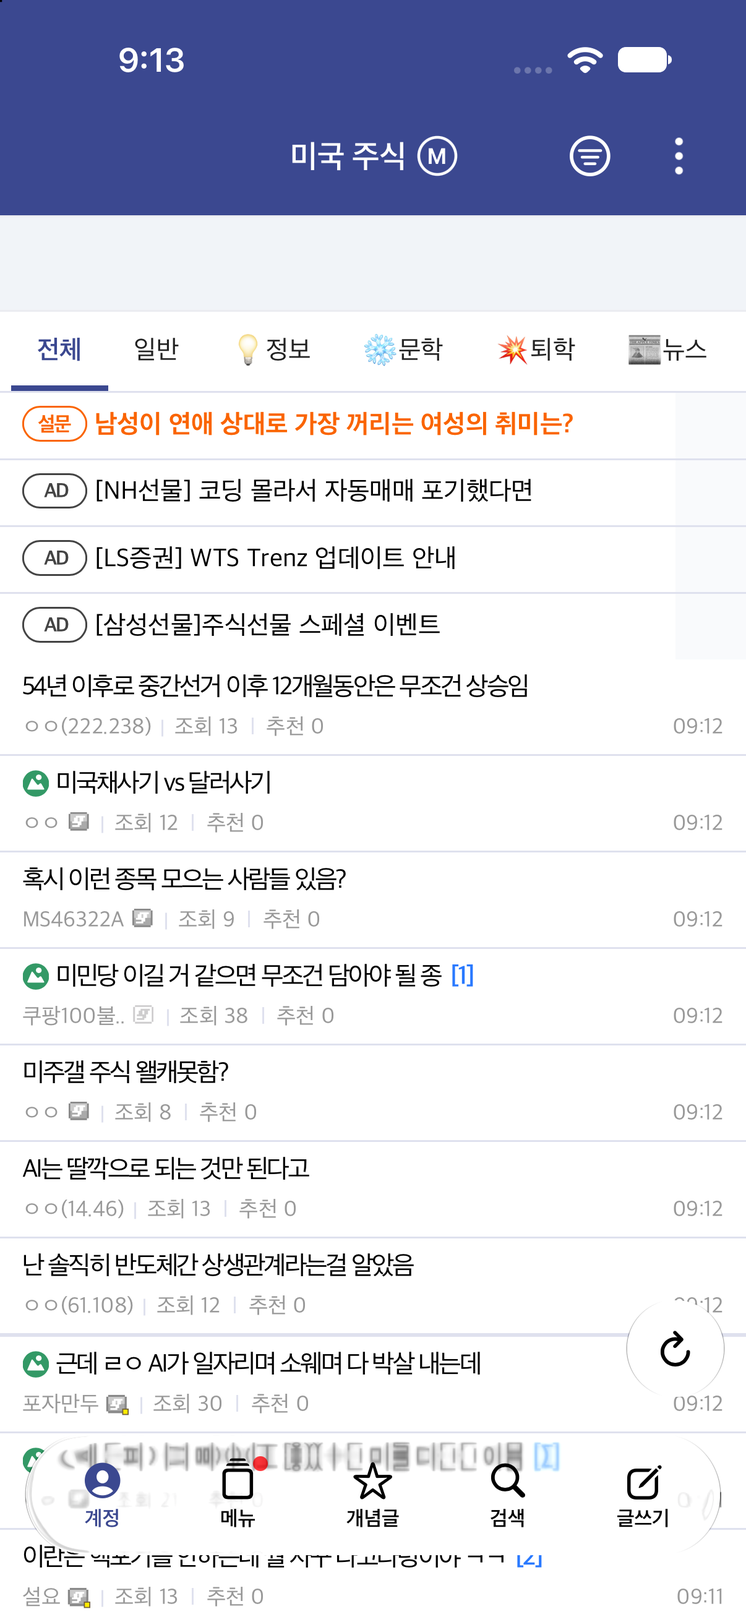
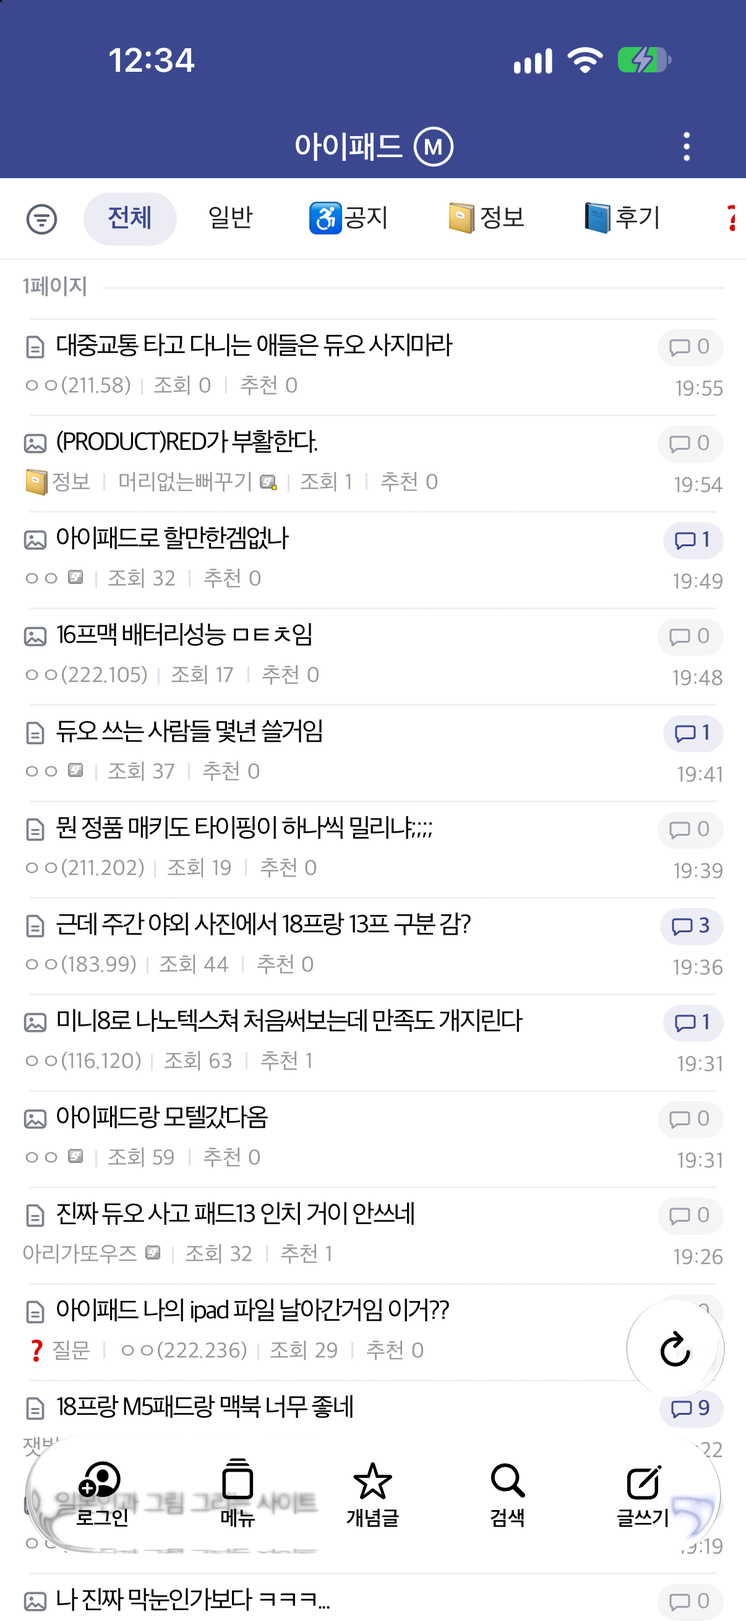
문서 갱신: 0.10.3 기능 기준 README·FEATURES 리프레시 및 새 스크린샷 반영

diff --git a/FEATURES.md b/FEATURES.md
@@ -1,41 +1,89 @@
 # DCAPP (디캡) 기능 소개
 
-디캡은 디시인사이드 모바일 웹(m.dcinside.com)을 아이폰 · 아이패드 · 아이폰 듀오에서 더 편하게 보기 위해 만든 **개인용 iOS 앱**입니다.
-이 문서는 스크린샷으로 주요 기능을 소개합니다. 전체 기능 목록과 라이선스는 [README](README.md)를 참고하세요.
+디캡은 디시인사이드 모바일 웹(m.dcinside.com)을 아이폰 · 아이패드 · 아이폰 듀오에서 더 편하게 보기 위해 만든 **개인용 iOS 앱**입니다.  
+이 문서는 앱 내 튜토리얼 구성을 바탕으로 주요 기능을 스크린샷과 함께 소개합니다. 전체 기능 요약과 라이선스는 [README](README.md)를 참고하세요.
 
 > ⚠ 디시인사이드와 관계없는 **비공식** 앱입니다. 사이트 구조가 바뀌면 일부 기능이 동작하지 않을 수 있습니다.
 
-> 📌 스크린샷의 갤러리(미국 주식 등)는 앱 설명용 사진을 찍기 위해 Claude가 임의로 고른 갤러리입니다. 제작자가 평소 활동하는 갤러리가 아닙니다.
+> 📌 스크린샷의 갤러리는 앱 설명용 사진을 찍기 위해 제작자가 임의로 고른 갤러리이며, 제작자가 평소 활동하는 갤러리가 아닙니다.
 
 ## 목차
 
-1. [갤러리 글 목록](#1-갤러리-글-목록)
-2. [글 읽기 · 댓글](#2-글-읽기--댓글)
-3. [차단 · 메모](#3-차단--메모)
-4. [앱 내 알림](#4-앱-내-알림)
-5. [계정 저장 · 전환](#5-계정-저장--전환)
-6. [임시저장](#6-임시저장)
-7. [한손 모드](#7-한손-모드)
-8. [글 보관함](#8-글-보관함)
-9. [각종 설정](#9-각종-설정)
+1. [컨트롤바 · 나무위키 검색](#1-컨트롤바--나무위키-검색)
+2. [글 목록 · 말머리 · 필터 · 자동 이어 붙이기](#2-글-목록--말머리--필터--자동-이어-붙이기)
+3. [작성자 · 갤러리 검색](#3-작성자--갤러리-검색)
+4. [글 읽기 · 사진 · 댓글](#4-글-읽기--사진--댓글)
+5. [차단 · 메모 · 고급 차단](#5-차단--메모--고급-차단)
+6. [분할 화면 · 한손 모드 · 듀오](#6-분할-화면--한손-모드--듀오)
+7. [글쓰기 · 계정 · 잠금 · 알림](#7-글쓰기--계정--잠금--알림)
+8. [글 보관함 · 각종 설정 · 업데이트](#8-글-보관함--각종-설정--업데이트)
 
 ---
 
-## 1. 갤러리 글 목록
+## 1. 컨트롤바 · 나무위키 검색
+
+<p align="center">
+  <img src="docs/images/tutorial.png" width="260" alt="앱 내 튜토리얼">
+</p>
+
+- **컨트롤바**: 계정 · 메뉴 · 개념글⇄전체글 · 검색 · 글쓰기를 한 막대에 모았습니다.
+  - 설정 → 컨트롤바에서 **가로로 쓸 때(하단 바) / 세로로 쓸 때(오른쪽 막대)** 배치를 따로 고릅니다.
+  - 가로 바(비분할)에서 글을 볼 때는 개념글 버튼이 **댓글작성** 버튼으로 바뀝니다.
+  - 막대를 옆으로 밀면 둘째 칸(**나무위키 · 차단·메모 · 보관함/즐겨찾기 · 링크 공유**)이 나오며, 버튼 순서 · 접기 · 스크롤 시 자동 숨김을 설정할 수 있습니다.
+- **나무위키 검색**: 둘째 칸의 **나무위키**를 누르면 검색 창이 열립니다.
+  - 검색어를 비워 두면 **실시간 검색어**가 순위대로 나오며, 항목을 **왼쪽으로 밀면** 실검 사유를 바로 볼 수 있습니다.
+  - 입력 중에는 **연관 검색어**가 뜨며, 앱 안의 창에서 바로 열고 닫으면 보던 디시 화면이 그대로 남습니다.
+
+---
+
+## 2. 글 목록 · 말머리 · 필터 · 자동 이어 붙이기
 
 <p align="center">
   <img src="docs/images/list-iphone.png" width="280" alt="아이폰 글 목록">
 </p>
 
-- **말머리 탭**: 글 목록 위에 말머리가 둥근 탭으로 한 줄에 놓입니다. 좌우로 넘겨 고르고, 지금 보고 있는 말머리는 테마 색으로 표시됩니다.
-- **댓글 수**: 제목 바로 뒤에 파란 `[댓글수]`로 보여 줍니다.
-- **컨트롤바**: 계정 · 메뉴 · 개념글 · 검색 · 글쓰기를 한곳에 모은 버튼 막대입니다. 순서는 설정에서 바꿀 수 있습니다.
-- **스크롤하면 숨기기**: 스크롤하는 동안 컨트롤바가 화면 밖으로 들어갔다가, 멈추면 바로 다시 나옵니다.
-- **개념글 뒤로가기**: 개념글 2페이지 이상에서 뒤로 가면 전체글이 아니라 바로 앞 페이지로 갑니다.
+- **상단 고정 말머리 줄**: 필터 버튼과 `전체` 탭이 왼쪽에 고정되고, 나머지 말머리는 가로로 넘겨 고릅니다.
+- **게시물 필터**: 말머리 줄 왼쪽 깔때기(말머리가 없는 갤러리는 상단바 우측)에서 **특정 말머리 · 읽은 글 · 추천/댓글/조회수** 조건으로 걸러 봅니다.
+- **깔끔한 행 구성**: 글 종류 아이콘, 오른쪽 댓글 캡슐 배지(눌러서 댓글로 바로 이동)와 작성시간 정렬, 부드러운 여백 구분선, `N페이지` 구분선 표시.
+- **자동 이어 붙이기**: 목록 맨 아래로 스크롤하면 다음 페이지가 자동으로 이어지며, 상단에 지나온 페이지 번호가 고정 표시됩니다.
+- **글 롱프레스 메뉴**: 글을 꾹 누르면 차단 · 메모 · 갤로그 · 작성글 찾기 메뉴가 바로 열립니다.
 
-### 기기별 화면
+---
 
-컨트롤바는 기기와 화면 방향에 맞춰 **하단 가로 막대** 또는 **오른쪽 세로 막대**로 놓입니다. 가로로 쓸 때 · 세로로 쓸 때 어느 쪽으로 둘지 설정에서 따로 고를 수 있습니다.
+## 3. 작성자 · 갤러리 검색
+
+- **2탭 검색 시트**: 갤러리 안에서 검색을 누르면 **갤러리 내 글 검색**(말머리 · 검색 범위 · 개념글만)과 **통합검색**을 상단 탭으로 바로 오갑니다.
+- **실시간 갤러리 찾기**: 검색어 입력 중에도 정식 · 마이너 · 미니 · 인물 갤러리 검색 결과가 바로 뜹니다.
+- **식별코드 · IP로 작성글 찾기**: 검색 시트나 닉네임/글 꾹 누르기 메뉴에서 해당 작성자(유동은 IP 앞 두 칸 기준)의 글만 모아서 볼 수 있습니다. 창을 닫아도 뒤에서 계속 수집합니다.
+
+---
+
+## 4. 글 읽기 · 사진 · 댓글
+
+<p align="center">
+  <img src="docs/images/post-iphone.png" width="280" alt="글 보기와 댓글">
+</p>
+
+- **추천 · 비추 칸**: 개추와 비추를 한 줄에 모으고 실베추 · 펌 · 수정/삭제를 정리했습니다. 비로그인 추천 코드 입력과 재시도도 지원합니다.
+- **댓글 정렬 · 입력**: 등록순 · 최신순 · 답글순으로 정렬하고, 세로 컨트롤바 사용 시 댓글 입력창이 화면 아래에 고정됩니다.
+- **사진 보기**: 글 속 사진을 탭하면 전체 화면으로 보고, 핀치·더블탭 확대, 좌우 넘기기, 원본 저장(움짤 포함) 및 **전체 일괄저장**, 본문 이미지 차단이 가능합니다.
+
+---
+
+## 5. 차단 · 메모 · 고급 차단
+
+| 차단·메모 설정 | 차단 목록 |
+|:---:|:---:|
+| <img src="docs/images/block-settings.png" width="260" alt="차단 메모 설정"> | <img src="docs/images/block-users.png" width="260" alt="차단 유저 목록"> |
+
+- **작성자 차단 · 메모**: 닉네임·글을 탭하거나 길게 눌러 **아이디 · IP · 닉네임** 차단 및 주황색 메모를 남깁니다(이 갤러리만 / 모든 갤러리 선택).
+- **자동메모**: 메모가 없는 로그인 계정에 아이디를 자동으로 표시합니다.
+- **키워드 · 고급 차단**: 일반 키워드 외에 작성자 + 단어 복합 조건, **특수문자 · 공백 끼워넣기 우회 막기**를 지원합니다.
+- **디시콘 · 이미지 차단 & 요소 숨기기**: 디시콘/본문 이미지 차단과 화면 요소 직접 선택 숨기기를 지원하며, 차단된 글은 **접기** 또는 **완전 숨김** 중 고릅니다.
+
+---
+
+## 6. 분할 화면 · 한손 모드 · 듀오
 
 | 아이패드 (세로) | 아이패드 (가로) |
 |:---:|:---:|
@@ -45,123 +93,34 @@
 |:---:|:---:|:---:|
 | <img src="docs/images/list-duo-1.png" width="230" alt="듀오 접은 화면"> | <img src="docs/images/list-duo-2.png" width="330" alt="듀오 펼친 화면 가로"> | <img src="docs/images/list-duo-3.png" width="230" alt="듀오 펼친 화면 세로"> |
 
-- **아이폰 듀오 대응**: 시계 · 배터리는 시스템 기본인 화면 옆 세로 줄에 두고, 웹 화면은 그 줄 아래까지 깔고, 컨트롤바는 줄 안으로 넣습니다.
-  - 예전에는 시계를 위쪽 가로로 고정했는데, 다이나믹 아일랜드 개수 · 접기/펴기 · 회전에 따라 시계가 밀려서 상단바 버튼이 가려지거나 겹치는 일이 있었습니다. 그래서 앱이 위치를 따로 맞추지 않고 시스템 배치를 따르게 바꿨습니다.
-  - 흰 페이지 위에서도 보이도록 라이트 모드에서는 시계 글씨를 검게 보여 줍니다.
-  - 글자는 세로 줄 안쪽에 두고, 사진·영상은 줄 아래까지 깔립니다. 동영상 분할로 쓸 때도 댓글 입력창이 키보드 바로 위에 붙습니다.
+| 한손 모드 |
+|:---:|
+| <img src="docs/images/one-hand.png" width="280" alt="한손 모드"> |
+
+- **분할 화면**: 아이패드·듀오 펼친 가로 화면에서는 왼쪽 목록 · 오른쪽 글을 나란히 보며, 접거나 돌려도 보던 글이 새로고침 없이 그대로 이어집니다.
+- **듀오 안전 영역 대응**: 세로 막대 시 시계·배터리 영역과 겹치지 않게 여백을 두고, 가로 막대 시에는 화면 끝까지 넓게 쓸 수 있습니다.
+- **한손 모드**: 상단바 갤러리 이름을 0.5초 길게 눌러 켜고, 핸들을 맨 위로 끌어 잠깐 버티면 해제됩니다.
 
 ---
 
-## 2. 글 읽기 · 댓글
+## 7. 글쓰기 · 계정 · 잠금 · 알림
 
-<p align="center">
-  <img src="docs/images/post-iphone.png" width="280" alt="글 보기와 댓글">
-</p>
+| 계정 저장·전환 | 임시저장 | 알림 배너 | 알림 탭 |
+|:---:|:---:|:---:|:---:|
+| <img src="docs/images/accounts.png" width="200" alt="계정 설정"> | <img src="docs/images/drafts.png" width="200" alt="임시저장"> | <img src="docs/images/alarm-banner.png" width="200" alt="알림 배너"> | <img src="docs/images/alarm-tab.png" width="200" alt="알림 탭"> |
 
-- **추천 · 비추 칸**: 개추와 비추를 한 줄에 모았습니다. 실베추 · 펌 버튼이 비추 옆에 붙어 있고, 본인 글이면 수정 · 삭제 버튼이 아래 줄 오른쪽에 나옵니다.
-- **댓글 정렬**: 등록순 · 최신순 · 답글순을 댓글 머리글에서 바로 고릅니다.
-- **댓글 입력**: 댓글창을 누르면 키보드가 올라오고, 입력창이 키보드 바로 위에 고정됩니다.
-- **답글**: 댓글을 누르면 답글 칸이 열립니다.
-- **새로고침**: 글을 다시 불러온 뒤 댓글 쪽으로 이동합니다. 다른 기기에서 쓴 댓글도 보입니다.
-- **사진 보기**: 글 속 사진을 탭하면 전체 화면으로 보고, 확대 · 넘기기 · 원본 저장(움짤 포함)을 할 수 있습니다.
+- **글쓰기**: 사진 포함 자동 임시저장, 갤러리별 자짤 자동 첨부, **금지어 등록 실패 시 첫 번째 금지어 위치 자동 선택**을 지원합니다.
+- **계정 · 잠금**: 다중 계정 키체인 저장 및 원탭 전환, 유동 닉네임·비밀번호 자동 입력, Face ID / Touch ID 및 기기 암호 잠금 해제, 가림막 꾸미기를 지원합니다.
+- **앱 내 알림**: 새 댓글 알림 배너 및 메뉴 → 알림 탭에서 확인합니다.
 
 ---
 
-## 3. 차단 · 메모
+## 8. 글 보관함 · 각종 설정 · 업데이트
 
-<p align="center">
-  <img src="docs/images/block-settings.png" width="280" alt="차단 메모 설정">
-</p>
-
-- **닉네임을 탭하거나 길게 누르면** 디시 차단 창 대신 앱의 차단 · 메모 메뉴가 뜹니다.
-- **아이디 · IP · 닉네임**으로 차단할 수 있고, 직접 입력해서 추가할 수도 있습니다.
-- 차단할 때 **이 갤러리에서만 / 모든 갤러리에서** 중 범위를 고릅니다.
-- **키워드 차단**, **디시콘 차단**도 됩니다.
-- 차단된 글 · 댓글은 **차단됨 표시**(회색 칸, 탭하면 보기) 또는 **완전히 숨김** 중에서 고릅니다.
-- **유저 메모**: 아이디 · IP · 닉네임에 짧은 메모를 달면 닉네임 옆에 보여 줍니다. 메모도 갤러리별로 따로 달 수 있습니다.
-- **자동메모**: 메모가 없는 로그인 계정(유동 제외)에 닉네임 대신 아이디를 자동으로 메모해 줍니다. 범위는 **모든 갤러리 / 갤러리마다 / 선택한 갤러리만**에서 고릅니다. 글 목록과 글 안의 댓글에 모두 적용됩니다.
-
----
-
-## 4. 앱 내 알림
-
-| 알림 배너 | 알림 탭 |
+| 글 보관함 | 설정 |
 |:---:|:---:|
-| <img src="docs/images/alarm-banner.png" width="280" alt="앱 내 알림 배너"> | <img src="docs/images/alarm-tab.png" width="280" alt="알림 탭"> |
+| <img src="docs/images/saved-posts.png" width="280" alt="글 보관함"> | <img src="docs/images/settings.png" width="280" alt="설정"> |
 
-- 내 글 · 댓글에 새 댓글이 달리면 앱 사용 중에 화면 위에 **배너**로 잠깐 보여 줍니다. 누르면 그 글로 갑니다.
-- 받은 알림은 **갤러리 → 알림** 탭에 쌓이고, 읽지 않은 알림이 있으면 컨트롤바의 갤러리 버튼에 빨간 점이 붙습니다.
-- 디시 웹이 띄우는 알림 팝업은 숨기고 앱 알림으로 대신합니다.
-
----
-
-## 5. 계정 저장 · 전환
-
-<p align="center">
-  <img src="docs/images/accounts.png" width="280" alt="계정 설정">
-</p>
-
-- **여러 계정 저장**: 계정 정보는 기기 키체인에 암호화해 보관합니다.
-- **탭 한 번으로 전환**: 계정을 누르면 지금 로그인을 끝내고 그 계정으로 바로 로그인합니다.
-- **자동 로그인**: 로그인 화면에서 저장한 계정을 자동으로 입력할 수 있습니다.
-- **유동 닉네임 · 비밀번호**: 비로그인으로 댓글을 쓸 때 닉네임과 비밀번호를 자동으로 채웁니다.
-- 로그인 후 뜨는 **비밀번호 변경 안내는 자동으로 건너뜁니다.**
-
----
-
-## 6. 임시저장
-
-<p align="center">
-  <img src="docs/images/drafts.png" width="280" alt="임시저장 불러오기">
-</p>
-
-- 글쓰기 화면 상단바에 **임시저장 · 불러오기 · 등록** 버튼이 있습니다.
-- 쓰는 중인 글은 **자동으로 임시저장**되고, 직접 저장한 글과 함께 목록에서 골라 이어 쓸 수 있습니다. 자동 저장된 글에는 `자동` 표시가 붙습니다.
-
----
-
-## 7. 한손 모드
-
-<p align="center">
-  <img src="docs/images/one-hand.png" width="280" alt="한손 모드">
-</p>
-
-- 화면 위쪽을 비우고 아래쪽에서만 앱을 씁니다. 큰 화면에서도 엄지가 닿는 곳에 내용이 옵니다.
-- 비운 위쪽에는 **PiP(화면 속 화면) 영상**을 띄워 두고 함께 볼 수 있습니다.
-- 상단바의 갤러리 이름을 **길게 눌러** 켜고, 손잡이를 **맨 위까지 끌어 잠깐 버티면** 해제됩니다. 손잡이로 높이도 조절할 수 있습니다.
-
----
-
-## 8. 글 보관함
-
-<p align="center">
-  <img src="docs/images/saved-posts.png" width="280" alt="글 보관함">
-</p>
-
-- 마음에 드는 글을 **폴더별로 보관**합니다. 저장할 때의 내용도 함께 보관해서, 원글이 지워져도 다시 볼 수 있습니다.
-- **갤러리 → 보관함** 탭에서 전체 · 분류 없음 · 폴더별로 모아 봅니다.
-
----
-
-## 9. 각종 설정
-
-<p align="center">
-  <img src="docs/images/settings.png" width="280" alt="설정">
-</p>
-
-- **테마**: 상단바와 강조색을 바꿉니다. 웹페이지 속 디시 파란색도 테마 색에 맞춰집니다.
-- **스와이프 뒤로가기**: 화면을 오른쪽으로 쓸어 뒤로 가고, 민감도를 조절합니다. 갤러리 목록에서 쓸면 갤러리 창을 엽니다.
-- **사이트 상단 메뉴 숨기기**: 앱 상단바와 겹치는 디시 헤더를 숨깁니다.
-- **홈 화면 대신 실북갤 순위 보기**
-- **컨트롤바 버튼**: 버튼 순서, 가로 · 세로 배치, 스크롤할 때 숨기기, ⋮ 메뉴를 상단바로 옮기기
-- **앱 아이콘 변경**
-- **보안**: Face ID(또는 Touch ID)로 앱 잠금, 앱 전환 화면에서 내용 가리기
-- **다중 프로필**: 프로필마다 설정·기록·보관함·저장된 계정·디시 로그인이 완전히 따로 (버전 정보 → 히든영역 → 프로필 변경)
-- **설정 백업 · 복원** (JSON, 비밀번호 제외)
-
-### 그 밖의 기능
-
-- **갤러리 내 검색**: 말머리 · 검색 범위 · 개념글만 · 최근 검색어
-- **⋮ 메뉴**: 갤러리 즐겨찾기, 갤러리 공지 보기, 갤러리 관리 내역, 링크 공유, 화면 캡처, 화면 정리(요소 숨기기)
-- **캡처**: 보이는 화면 / 전체 페이지 캡처
-- **자짤**: 미리 등록한 사진을 글쓰기 화면에 자동으로 첨부합니다(갤러리별 설정).
+- **글 보관함**: 글을 폴더별로 오프라인 저장해 원글이 지워져도 다시 봅니다.
+- **설정 · 프로필 · 백업**: 테마 색, 스와이프 뒤로가기 민감도, 앱 아이콘 변경, 다중 프로필 분리, 설정 JSON 백업·복원을 지원합니다.
+- **업데이트 · 튜토리얼**: GitHub / GitLab 최신 릴리즈 자동 확인 및 Feather · SideStore · LiveContainer 바로 설치(`source.json` 지원), 설정 → **튜토리얼 다시 보기**를 제공합니다.

diff --git a/README.md b/README.md
@@ -1,73 +1,47 @@
 # DCAPP (디캡)
 
-디시인사이드 모바일 웹(m.dcinside.com)을 더 편하게 보기 위해 만든 **개인용 iOS 앱**입니다.
-SwiftUI + WKWebView 기반의 사이트입니다. 웹브라우저 모바일 버전 기반으로 굴러갑니다.
+디시인사이드 모바일 웹(m.dcinside.com)을 아이폰 · 아이패드 · 아이폰 듀오에서 더 편하게 보기 위해 만든 **개인용 iOS 앱**입니다.  
+SwiftUI + WKWebView 기반으로 동작합니다.
 
 > ⚠ 디시인사이드와 관계없는 **비공식** 앱입니다. 개인 사용 목적으로 만들었으며, 사이트 구조가 바뀌면 일부 기능이 동작하지 않을 수 있습니다.
 
-📸 스크린샷으로 보는 기능 소개는 [FEATURES.md](FEATURES.md)에 있습니다. 스크린샷의 갤러리는 앱 설명용 사진을 찍기 위해 Claude가 임의로 고른 곳이고, 제작자가 평소 활동하는 갤러리가 아닙니다.
+📸 스크린샷으로 보는 기능 소개는 [FEATURES.md](FEATURES.md)에 있습니다. 스크린샷 속 갤러리는 앱 설명용 사진을 찍기 위해 제작자가 임의로 고른 곳이며, 제작자가 평소 활동하는 갤러리가 아닙니다.
 
 ## 주요 기능
 
-### 탐색
-- **하단 바**: 홈 · 갤러리 · 개념글⇄전체글 · 검색 · 글쓰기
-- **갤러리 모음**: 즐겨찾기, 방문 기록, 갤러리 찾기
-- **갤러리 내 검색**: 말머리 · 검색 범위(제목+내용/제목/내용/글쓴이/댓글) · 개념글만 · 최근 검색어
-- **홈 화면 정리**: 디시 첫 화면 대신 실북갤 순위만 보기
-- **사이트 상단 메뉴 숨기기**: 앱 상단바와 겹치는 사이트 헤더·글쓰기 버튼 숨김
-- **개념글 뒤로가기**: 개념글 2페이지 이상에서 뒤로 가면 바로 앞 페이지로
-- **스와이프 뒤로가기**: 화면을 오른쪽으로 쓸어 뒤로가기 (민감도 조절), 갤러리 목록에서 쓸면 갤러리 창 열기
+### 탐색 · 글 목록
+- **컨트롤바**: 계정 · 메뉴 · 개념글⇄전체글(글 안 가로 바에서는 **댓글작성**) · 검색 · 글쓰기
+  - 설정에서 **하단 가로 막대 ↔ 오른쪽 세로 막대**를 세로/가로 방향별로 따로 선택
+  - 막대를 옆으로 밀면 둘째 칸(**나무위키 · 차단·메모 · 보관함/즐겨찾기 · 링크 공유**) 표시
+  - 버튼 순서 · 접기 · 스크롤 시 자동 숨김 지원
+- **상단 고정 말머리 · 필터**: 상단에 말머리 줄(필터 + `전체` 고정)이 고정되며, 깔때기 버튼으로 **특정 말머리 · 읽은 글 · 추천/댓글/조회수** 필터 적용
+- **자동 이어 붙이기 & `N페이지` 구분선**: 목록 맨 아래로 스크롤하면 다음 페이지가 자동으로 이어지며, 상단에 지나온 페이지 번호가 표시됨
+- **글 목록 롱프레스**: 글을 꾹 누르면 차단 · 메모 · 갤로그 · 작성글 찾기 메뉴 바로 열기
 
-### 읽기
-- **추천·비추 칸**: 개추·비추를 한 줄에 모으고, 실베추·펌은 비추 옆에, 본인 글의 수정·삭제는 아래 줄에
-- **댓글 정렬**: 등록순 · 최신순 · 답글순
-- **사진 보기**: 글 속 사진을 탭하면 전체 화면 — 핀치·더블탭 확대, 좌우로 넘기기, 위아래로 쓸어 닫기, 원본 저장(움짤 포함)
-- **댓글**: 입력창을 키보드 바로 위에 고정, 댓글만 새로고침
-- **글 보관함**: 글을 폴더별로 보관 (저장 당시 내용 함께 보관)
-- **캡처**: 보이는 화면 / 전체 페이지 캡처
+### 검색 · 나무위키
+- **갤러리 내 2탭 검색**: `갤러리 내 글 검색`(말머리 · 범위 · 개념글만)과 `통합검색`을 키보드 유지한 채 전환
+- **실시간 갤러리 찾기**: 타이핑 중에도 정식 · 마이너 · 미니 · 인물 갤러리 실시간 검색 결과 표시
+- **식별코드 · IP로 작성글 찾기**: 검색 시트 또는 닉네임/글 꾹 누르기 메뉴에서 해당 작성자의 글 모아서 보기 (유동은 IP 앞 두 칸 기준, 창을 닫아도 백그라운드 수집)
+- **나무위키 검색**: 컨트롤바 둘째 칸 **나무위키**에서 **실시간 검색어** · **연관 검색어**를 보고, 실시간 검색어를 **왼쪽으로 밀어** 실검 사유를 텍스트로 확인하며 앱 내 창에서 바로 열람
+
+### 읽기 · 댓글 · 글쓰기
+- **추천 · 비추 칸**: 개추 · 비추를 한 줄에 모으고 실베추 · 펌 · 수정/삭제 정리, 추천 재시도 및 비로그인 코드 입력 지원
+- **댓글**: 등록순 · 최신순 · 답글순 정렬, 세로 컨트롤바 사용 시 댓글 입력창 화면 하단 고정, 보안 확인 자동 대응
+- **사진 보기**: 핀치 · 더블탭 확대, 좌우 넘기기, 원본 저장(움짤 포함) 및 전체 일괄저장, 본문 이미지 차단
+- **글쓰기**: 등록 · 임시저장 · 불러오기 · 계정, 사진 포함 자동 임시저장, 갤러리별 자짤 자동 첨부, **금지어 등록 실패 시 첫 금지어 위치 자동 선택**
+- **글 보관함 & 캡처**: 폴더별 오프라인 글 보관, 보이는 화면 / 전체 페이지 캡처
 
 ### 차단 · 메모
-- **유저 차단**: 아이디 · IP · 닉네임 (글이나 댓글을 길게 누르거나 탭해서 선택, 직접 입력)
-- **유저 메모**: 아이디 · IP · 닉네임에 짧은 메모를 달아 닉네임 옆에 표시
-- **자동메모**: 메모 없는 로그인 계정을 아이디로 자동 메모 (모든 갤러리 / 갤러리마다 / 선택한 갤러리만, 글 목록과 글 안 댓글에 적용)
-- **키워드 차단**, **디시콘 차단**
-- **요소 숨기기**: 화면에서 원하는 부분을 탭해서 숨김
-- 차단된 글은 **접기**(탭해서 보기) 또는 **완전히 숨기기** 선택
+- **작성자 차단 · 메모**: 아이디 · IP · 닉네임별 차단 및 주황색 메모, **자동메모**(로그인 계정 아이디 자동 표시)
+- **키워드 · 고급 차단**: 작성자 + 단어 복합 조건, 특수문자 · 공백 끼워넣기 우회 막기 지원
+- **디시콘 · 이미지 차단 & 요소 숨기기**: 디시콘/본문 이미지 차단, 화면 요소 직접 탭해 숨김 (접기/완전 숨김 선택)
 
-### 글쓰기
-- 상단바에 **등록 · 임시저장 · 불러오기 · 계정** 버튼
-- **자동 임시저장** 및 임시저장 글 이어 쓰기
-- **자짤**: 미리 등록한 사진을 글쓰기 화면에 자동 첨부 (갤러리별 설정)
-
-### 계정
-- **여러 계정 저장**(키체인 암호화) 및 탭 한 번으로 계정 전환, 자동 로그인
-- 로그인 후 뜨는 **비밀번호 변경 안내 자동 건너뛰기**
-
-### 화면 · 편의
-- **한손 모드**: 화면 위쪽을 비우고 아래쪽에서만 사용 (갤러리 이름 길게 누르기 / 핸들을 맨 위로 끌어 해제)
-- **오른쪽 세로 버튼 막대** 표시 여부 선택 (끄면 ⋮ 메뉴가 상단바로 이동)
-- **iPhone 듀오 대응**: 펼친 화면을 끝까지 사용
-  - 시계 · 배터리는 시스템 기본인 **옆 세로 줄**에 둡니다. 예전에는 위쪽 가로로 고정했지만, 다이나믹 아일랜드 개수 · 접기/펴기 · 회전에 따라 시계가 밀려 상단바 버튼이 가려지거나 겹쳐서, 앱이 위치를 따로 맞추지 않고 시스템 배치를 그대로 따르게 했습니다.
-  - 웹 화면은 세로 줄 아래까지 깔리고, 컨트롤바는 그 줄 안으로 들어갑니다. 라이트 모드에서는 시계 글씨가 검게 보입니다.
-  - 글자(글 목록·본문·댓글)는 세로 줄 안쪽에 두고, 사진·영상은 줄 아래까지 깔립니다. 동영상 분할(위에 영상, 아래에 앱)에서도 댓글 입력창이 키보드 바로 위에 붙습니다.
-- **앱 아이콘 변경**
-- **다중 프로필**: 프로필마다 설정·기록·보관함·저장된 계정·디시 로그인이 완전히 따로 (버전 정보 → 히든영역 → 프로필 변경)
-- **설정 백업 · 복원** (JSON, 비밀번호 제외)
-- **FaceID/TouchID를 이용한 앱 잠금기능**
-- **가림막 꾸미기**: 앱 잠금 화면·앱 전환(멀티태스킹) 화면의 가림막 바탕(흐리게·색·내 사진)과 가운데 표시(자물쇠·로고·문구)를 따로 또는 같게 설정
-- **알림 기능** (실험적)
-
-### 업데이트 · 바로 설치
-- 앱을 열 때 **GitHub 최신 릴리즈 자동 확인** (설정 → 버전 정보 → 업데이트에서 끄기 / 직접 확인)
-- **바로 설치**: 최신 릴리즈의 ipa를 **Feather · SideStore · LiveContainer** 중 고른 앱으로 바로 열어 설치
-  - 설정 → 버전 정보 → 업데이트에서 "바로 설치에 쓸 앱"을 고른 뒤 "○○로 바로 설치"
-  - 새 버전 알림창에도 "○○로 바로 설치" 버튼이 함께 나옴
-  - 고른 앱이 기기에 설치돼 있어야 합니다
-
-### 추후 구현할 기능
-- **미정**
-
-
+### 기기 · 계정 · 보안 · 업데이트
+- **분할 화면 & 아이폰 듀오 대응**: 가로 넓은 화면에서 왼쪽 목록 · 오른쪽 글 나란히 보기, 접기/회전 시 보던 글 그대로 이어 보기, 듀오 세로/가로 바 안전 영역 대응
+- **한손 모드**: 갤러리 이름을 0.5초 길게 눌러 켜고, 위쪽 핸들을 맨 위로 끌어 해제
+- **계정 · 잠금 · 다중 프로필**: 다중 계정 키체인 저장 및 원탭 전환, Face ID / Touch ID + 기기 암호 잠금, 가림막 꾸미기, 프로필별 완전 분리, 설정 JSON 백업/복원
+- **알림**: 새 댓글 앱 내 배너 및 알림 탭
+- **업데이트 · 소스 배포**: GitHub / GitLab 릴리즈 자동 확인 및 Feather · SideStore · LiveContainer 바로 설치 (`source.json` 지원)
 
 ## 라이선스
 
